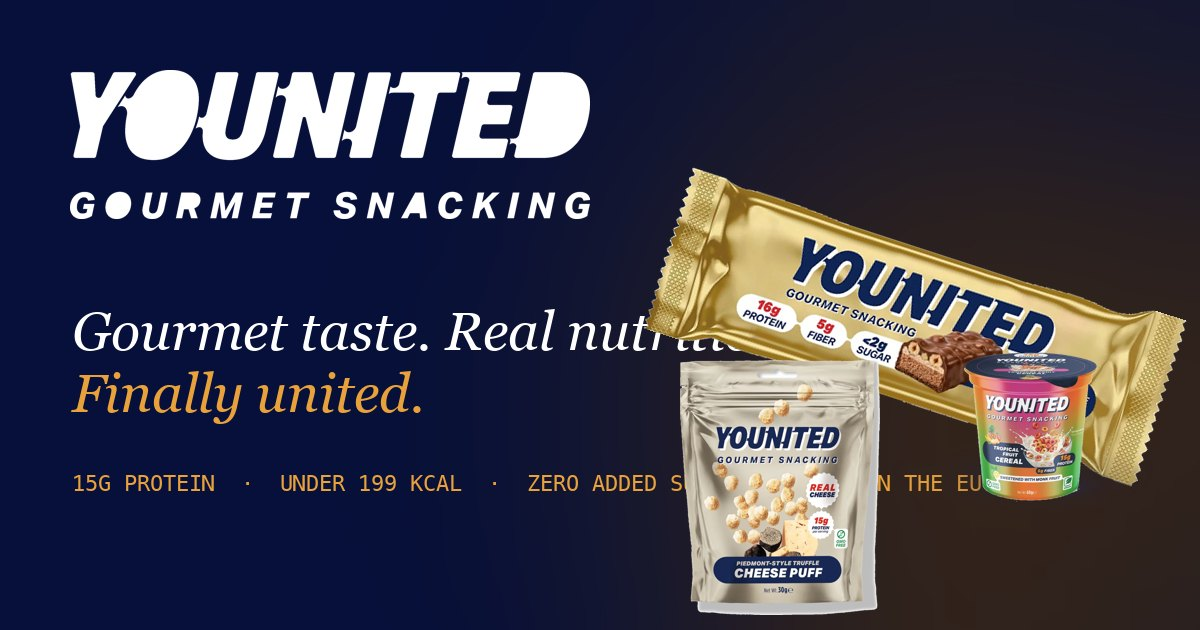
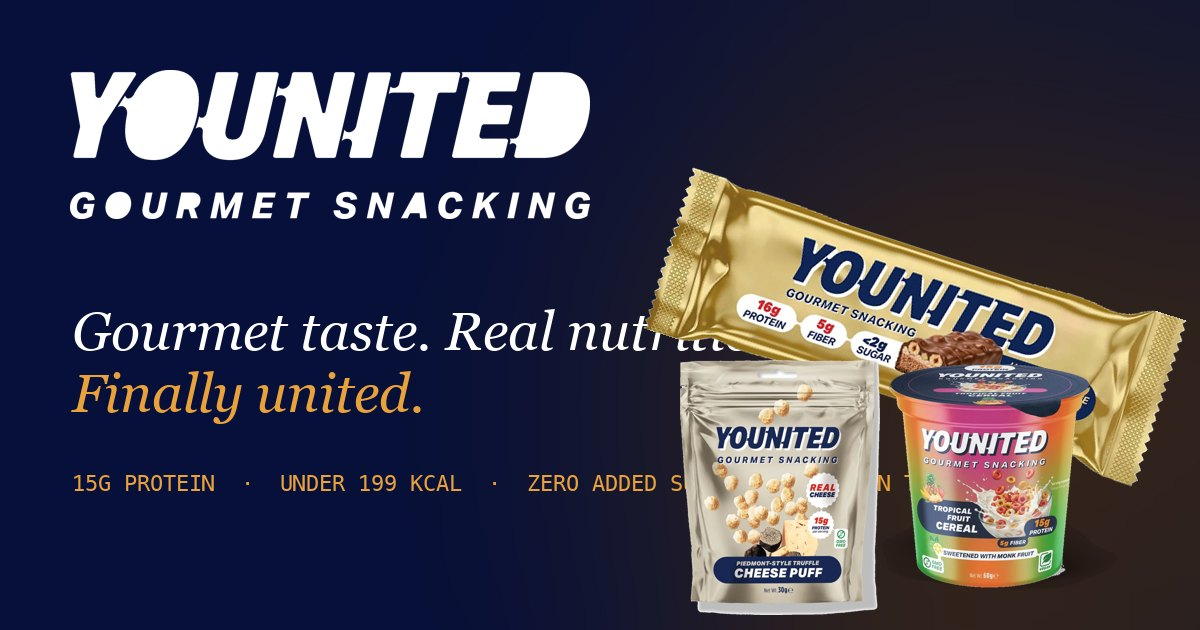
Copy and asset polish after handoff review
- Unify award wording, Türkiye spelling, Decathlon sentence, kcal label
- Cereal cutouts regenerated with soft-shadow pass now in tools
- OG images regenerated by script; drop unused Flip script
- README rewritten; sitemap lastmod / dateModified bumped

Changed region(s): [[0.74, 0.5429, 0.925, 0.9349]]

diff --git a/index.html b/index.html
@@ -89,7 +89,7 @@
 
   <div class="stats" data-reveal>
     <div class="stat"><span class="stat__num" data-count="15">0</span><span class="stat__unit">g</span><span class="stat__label">protein per serving</span></div>
-    <div class="stat"><span class="stat__pre">≤</span><span class="stat__num" data-count="199">0</span><span class="stat__label">kcal, maximum</span></div>
+    <div class="stat"><span class="stat__pre">≤</span><span class="stat__num" data-count="199">0</span><span class="stat__label">kcal per serving</span></div>
     <div class="stat"><span class="stat__num" data-count="0">0</span><span class="stat__unit">g</span><span class="stat__label">added sugar</span></div>
   </div>
 
@@ -254,7 +254,7 @@
     <article class="founder founder--kd" data-reveal>
       <span class="founder__role">Co-founder · Product Design & Development</span>
       <h3>Kadir Demir</h3>
-      <p>Product architect behind Muscle Cheff, Smarter Snacks and Bite & More. 1,000+ product trials, insights from 100+ countries, "Most Innovative Snack" at Natural Products Expo West 2026.</p>
+      <p>Product architect behind Muscle Cheff, Smarter Snacks and Bite & More. 1,000+ product trials, insights from 100+ countries, "Most Innovative / Creative Snack" at Natural Products Expo West 2026.</p>
       <a class="link" href="https://misterkd.com/" rel="noopener">Meet Mister KD <svg viewBox="0 0 24 24"><path d="M5 12h14M13 5l7 7-7 7"/></svg></a>
     </article>
     <div class="proof" data-reveal>
@@ -270,7 +270,7 @@
   <div class="partner__intro">
     <p class="kicker" data-reveal>Partner with us</p>
     <h2 data-split>Bring YOUNITED<br><em>to your shelves.</em></h2>
-    <p data-reveal>We are pre-loading distribution across Turkey, the Gulf, the EU and the US ahead of a 100,000-unit sampling launch. If you distribute, retail, invest or write about food — tell us who you are and we will reply within 48 hours with the line sheet.</p>
+    <p data-reveal>We are pre-loading distribution across Türkiye, the Gulf, the EU and the US ahead of a 100,000-unit sampling launch. If you distribute, retail, invest or write about food — tell us who you are and we will reply within 48 hours with the line sheet.</p>
     <ul class="partner__perks" data-reveal>
       <li><strong>Distributors</strong> exclusive territories, EU-origin paperwork ready</li>
       <li><strong>Retailers</strong> four families, one planogram, sampling support</li>

diff --git a/README.md b/README.md
@@ -1,6 +1,5 @@
 # younitedsnacks.com
 
-Static site for **You United Snacks**, hosted on GitHub Pages with the custom domain `younitedsnacks.com`.
+One-page marketing site for **YOUNITED Gourmet Snacking** (protein candy bars, cereal cups, cheese puffs, spreads). Static HTML/CSS/JS, deployed by GitHub Pages from `main` — push to deploy. No build step.
 
-- Edit `index.html` (and add pages) then push to `main`; GitHub Pages redeploys automatically.
-- `CNAME` binds the custom domain. `robots.txt` and `sitemap.xml` are for search engines.
+Design, content sources, research and deployment notes live in the private **panito** handoff folder (ask Enes Kiymaz). Do not edit `CNAME` or `.nojekyll`.
